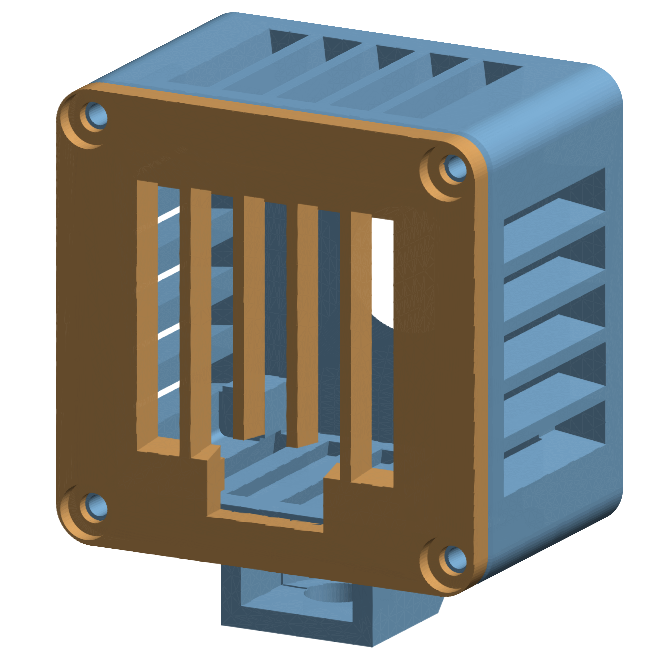
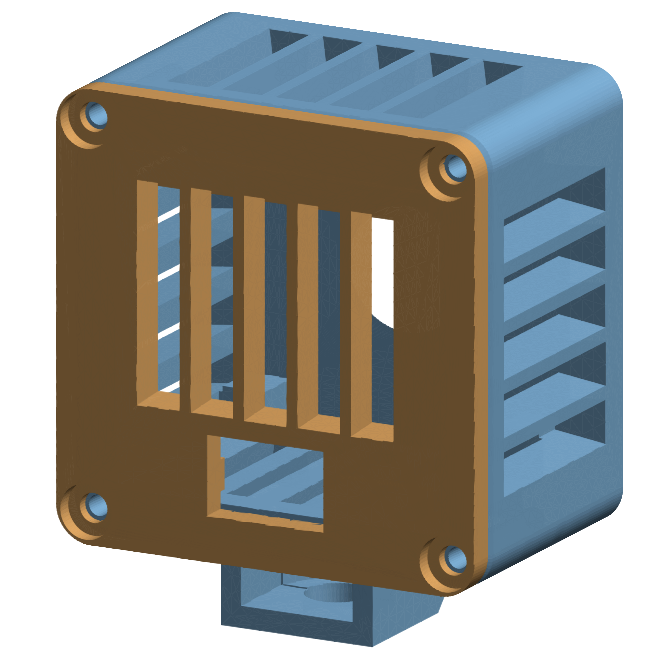
feat: verbessere Fin-Gitter-Logik und aktualisiere STL- und Bilddateien

Changed region(s): [[0.1791, 0.5672, 0.597, 0.7463]]

diff --git a/hardware/case_elp48mp.py b/hardware/case_elp48mp.py
@@ -377,19 +377,27 @@ def build_back():
     plate = add(plate, *bars)
 
     cuts = []
-    # fin grid over the cooler: flared slots -> chamfered ribs, like the walls
+    # Fin grid over the cooler: flared slots -> chamfered ribs, like the
+    # walls. The grid's lower edge stops a BRIDGE above the plug window —
+    # without it the two middle ribs would end in mid-air over the notch
+    # and the whole grid would hang from its top edge alone.
+    notch, notch_y = _plug_notch()
+    notch_top = notch_y + (P["plug_h"] + 2 * P["plug_clear"]) / 2
+    bridge = 3.0
+    grid_top = P["cooler_w"] / 2 - 4.0
+    grid_bot = notch_top + bridge
+    grid_h = grid_top - grid_bot
+    grid_yc = (grid_top + grid_bot) / 2
     n, span = P["fin_slots"], P["cooler_w"] - 6.0
     pitch = span / n
-    grid_h = P["cooler_w"] - 10.0
     for i in range(n):
         x = -span / 2 + pitch * (i + 0.5)
-        inner = slab(P["fin_slot_w"], grid_h, 0.02, x=x, y=1.0, z=-EPS)
+        inner = slab(P["fin_slot_w"], grid_h, 0.02, x=x, y=grid_yc, z=-EPS)
         outer = slab(P["fin_slot_w"] + 2 * P["fin_flare"],
                      grid_h + 2 * P["fin_flare"], 0.02,
-                     x=x, y=1.0, z=P["plate_h"] + EPS)
+                     x=x, y=grid_yc, z=P["plate_h"] + EPS)
         cuts.append(trimesh.util.concatenate([inner, outer]).convex_hull)
 
-    notch, _ = _plug_notch()
     cuts.append(notch)
 
     for x, y in _post_centres():
